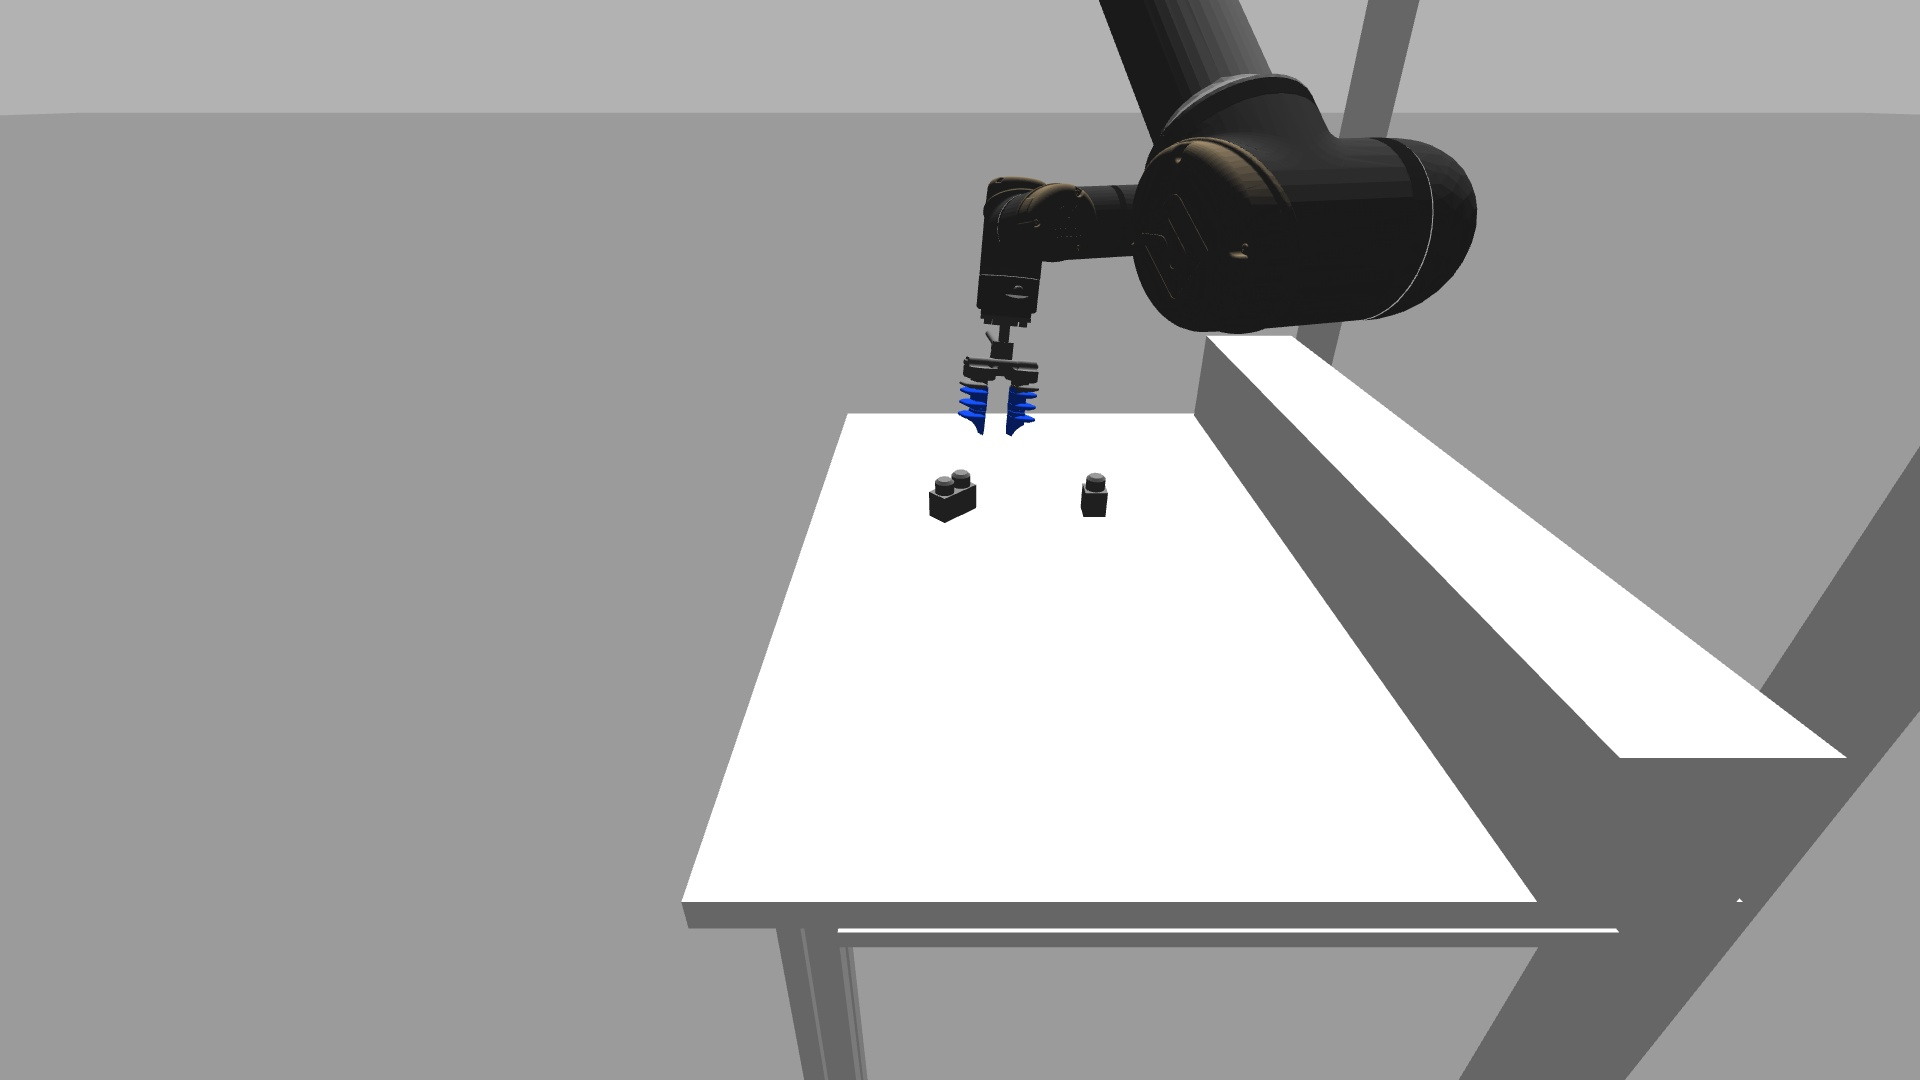
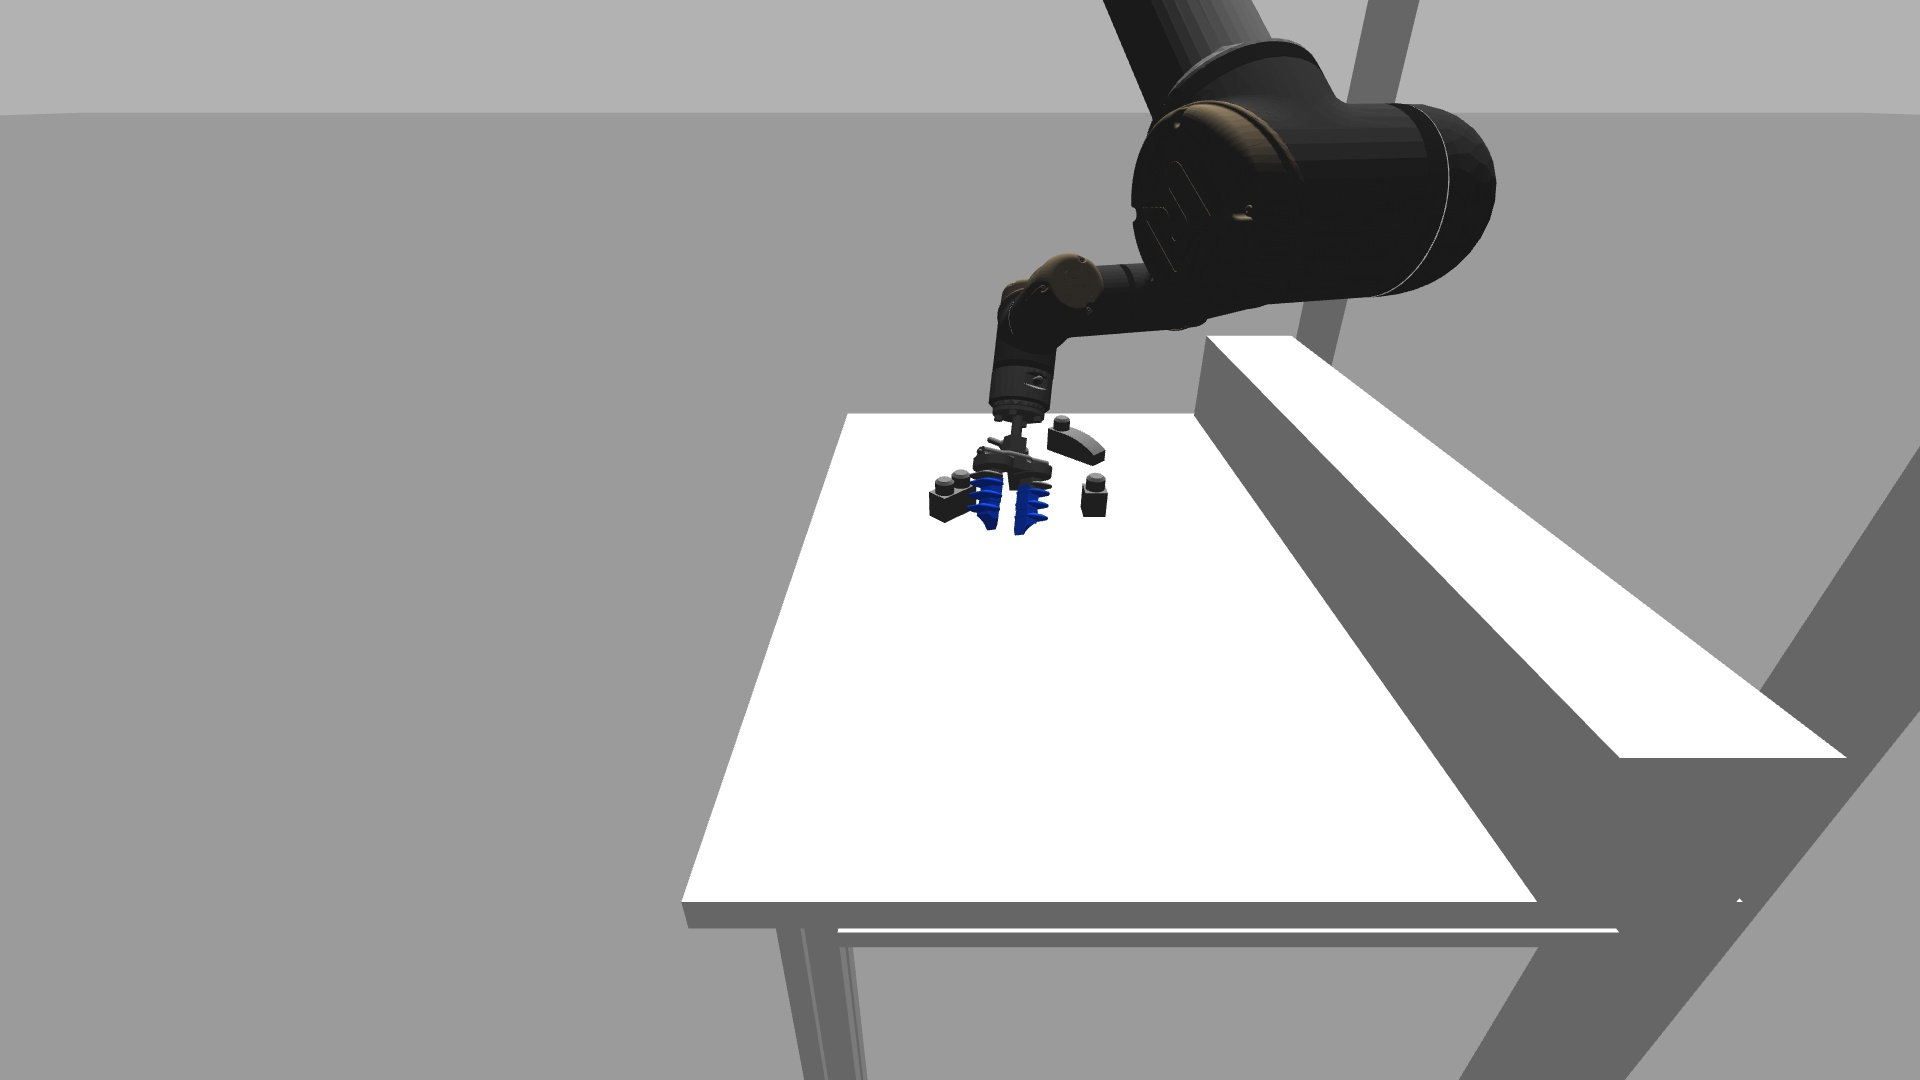
approaches blocks

Changed region(s): [[0.5, 0.1528, 0.75, 0.4889], [0.5938, 0.0, 0.7812, 0.2139], [0.5625, 0.0306, 0.5938, 0.0917]]

diff --git a/src/scripts/actual_poses_params.py b/src/scripts/actual_poses_params.py
@@ -18,9 +18,9 @@ actual_poses.append(ActualPose2D( label = "X1-Y1-Z2", x = 0.1, y = 0.2, theta = 
 #actual_poses.append(ActualPose2D( label = "X1-Y2-Z1", x = 0.1, y = 0.3, theta = PI/6 ))
 actual_poses.append(ActualPose2D( label = "X1-Y2-Z2", x = 0.1, y = 0.4, theta = PI/4 ))
 #actual_poses.append(ActualPose2D( label = "X1-Y2-Z2-CHAMFER", x = 0.2, y = 0.2, theta = PI/3 ))
-#actual_poses.append(ActualPose2D( label = "X1-Y2-Z2-TWINFILLET", x = 0.2, y = 0.3, theta = PI/2 ))
+actual_poses.append(ActualPose2D( label = "X1-Y2-Z2-TWINFILLET", x = 0.2, y = 0.3, theta = PI/2 ))
 #actual_poses.append(ActualPose2D( label = "X1-Y3-Z2", x = 0.2, y = 0.4, theta = -PI/6 ))
-#actual_poses.append(ActualPose2D( label = "X1-Y3-Z2-FILLET", x = 0.3, y = 0.2, theta = -PI/4 ))
+actual_poses.append(ActualPose2D( label = "X1-Y3-Z2-FILLET", x = 0.3, y = 0.2, theta = -PI/4 ))
 #actual_poses.append(ActualPose2D( label = "X1-Y4-Z1", x = 0.3, y = 0.3, theta = -PI/3 ))
 #actual_poses.append(ActualPose2D( label = "X1-Y4-Z2", x = 0.3, y = 0.4, theta = -PI/2 ))
 #actual_poses.append(ActualPose2D( label = "X2-Y2-Z2", x = 0.4, y = 0.2, theta = PI ))

diff --git a/src/ur5_lego_modules/bosco_code.py b/src/ur5_lego_modules/bosco_code.py
@@ -1,1 +1,1 @@
-../mega_blocks_detector_project/code/custom_model.py
+../mega_blocks_detector_project/code/custom_model_ros.py
